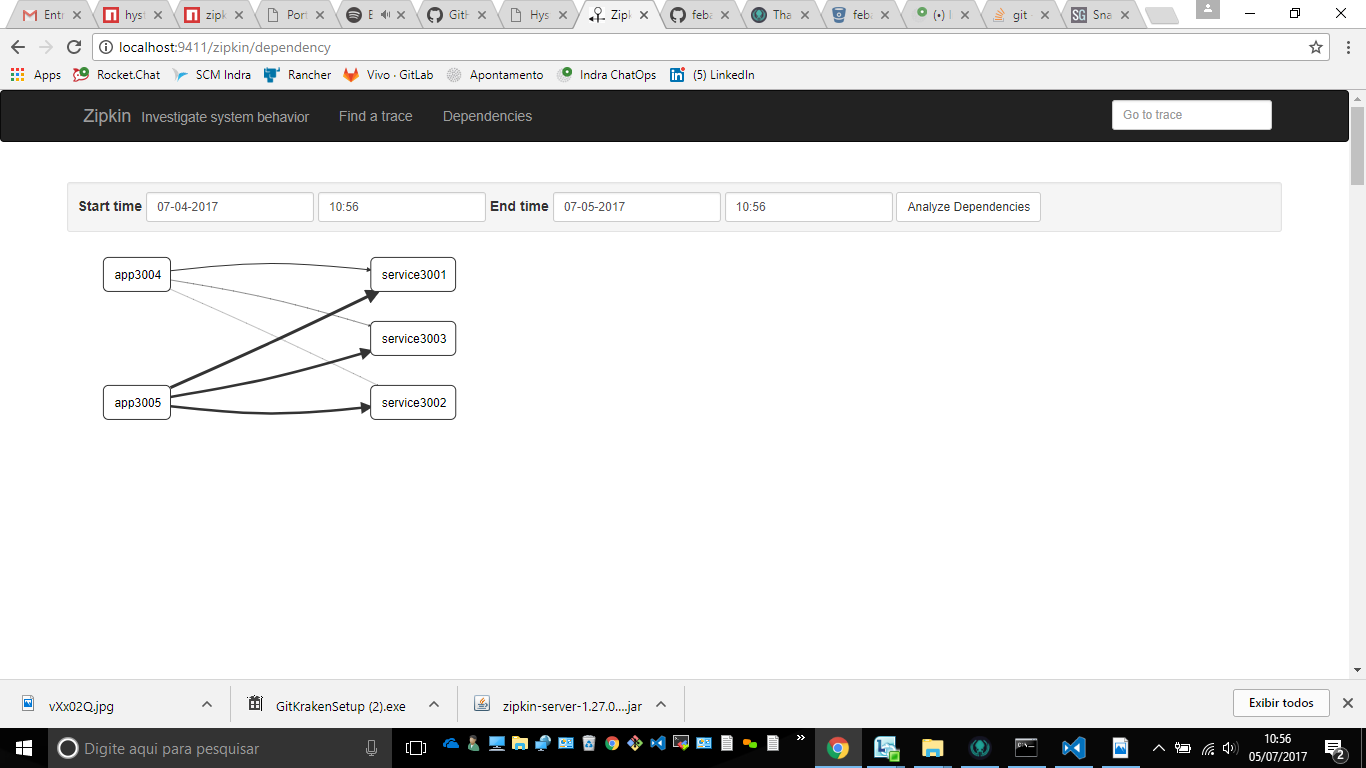
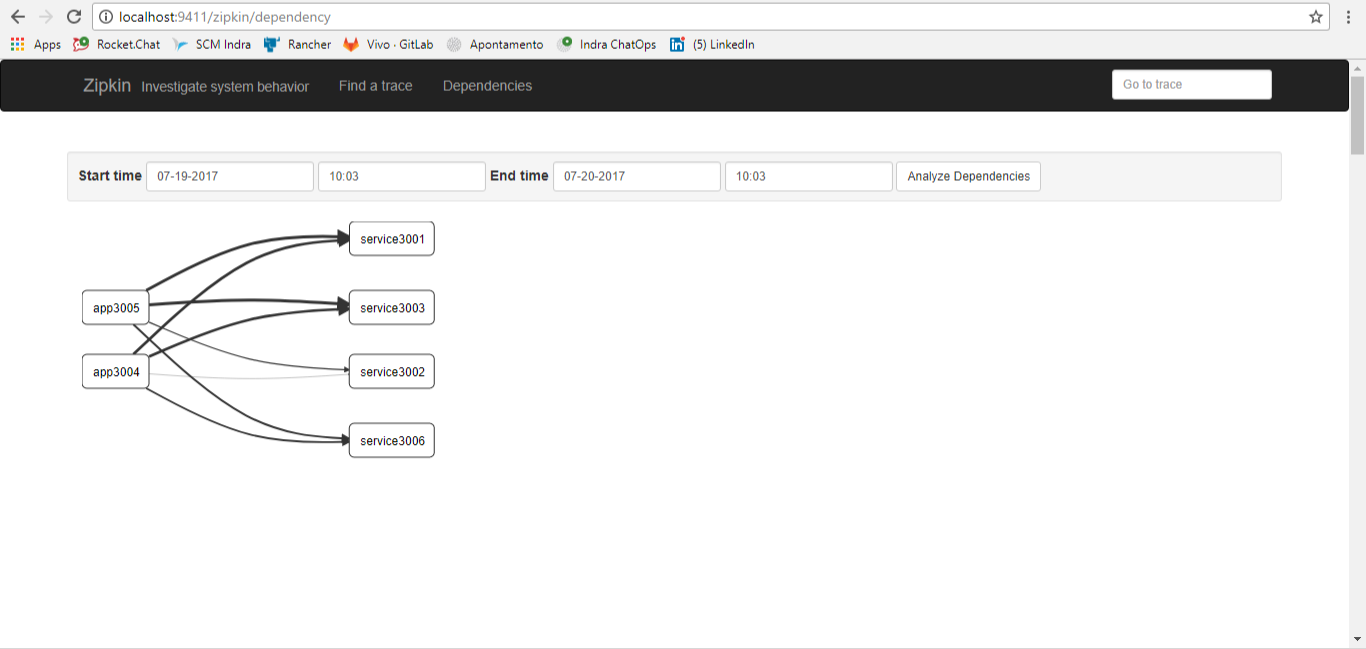
README
Atualização na documentação e remoção de arquivos não utilizados.

diff --git a/service.js b/service.js
@@ -64,12 +64,12 @@ module.exports = function(port) {
     setMaintenance();
 
     //instrument the server
-    // app.use(
-    //     zipkinMiddleware({
-    //         tracer,
-    //         serviceName: 'service' + port
-    //     })
-    // );
+    app.use(
+        zipkinMiddleware({
+            tracer,
+            serviceName: 'service' + port
+        })
+    );
 
     app.get("/random-sleep/:ms", function(req, res) {
         reqs++;

diff --git a/README.md b/README.md
@@ -116,10 +116,10 @@ app.use(dashboard({
     proxy: true         // enable proxy for stream
 }));
 
-app.listen(8000); //  http://localhost:8000/hystrix
+app.listen(8000); //  http://localhost:8000/
 ```
 
-Para iniciar o monitoramento via dashboard do funcionamento das aplicações e sua reciliência adicionar o stream de log de cada aplicação ao dashboard:
+Para iniciar o monitoramento via dashboard do funcionamento das aplicações e sua reciliência, deve adicionar o stream configurado em cada aplicação ao dashboard, no caso deste POC são os seguintes:
 
 http://localhost:3004/api/hystrix.stream
 
